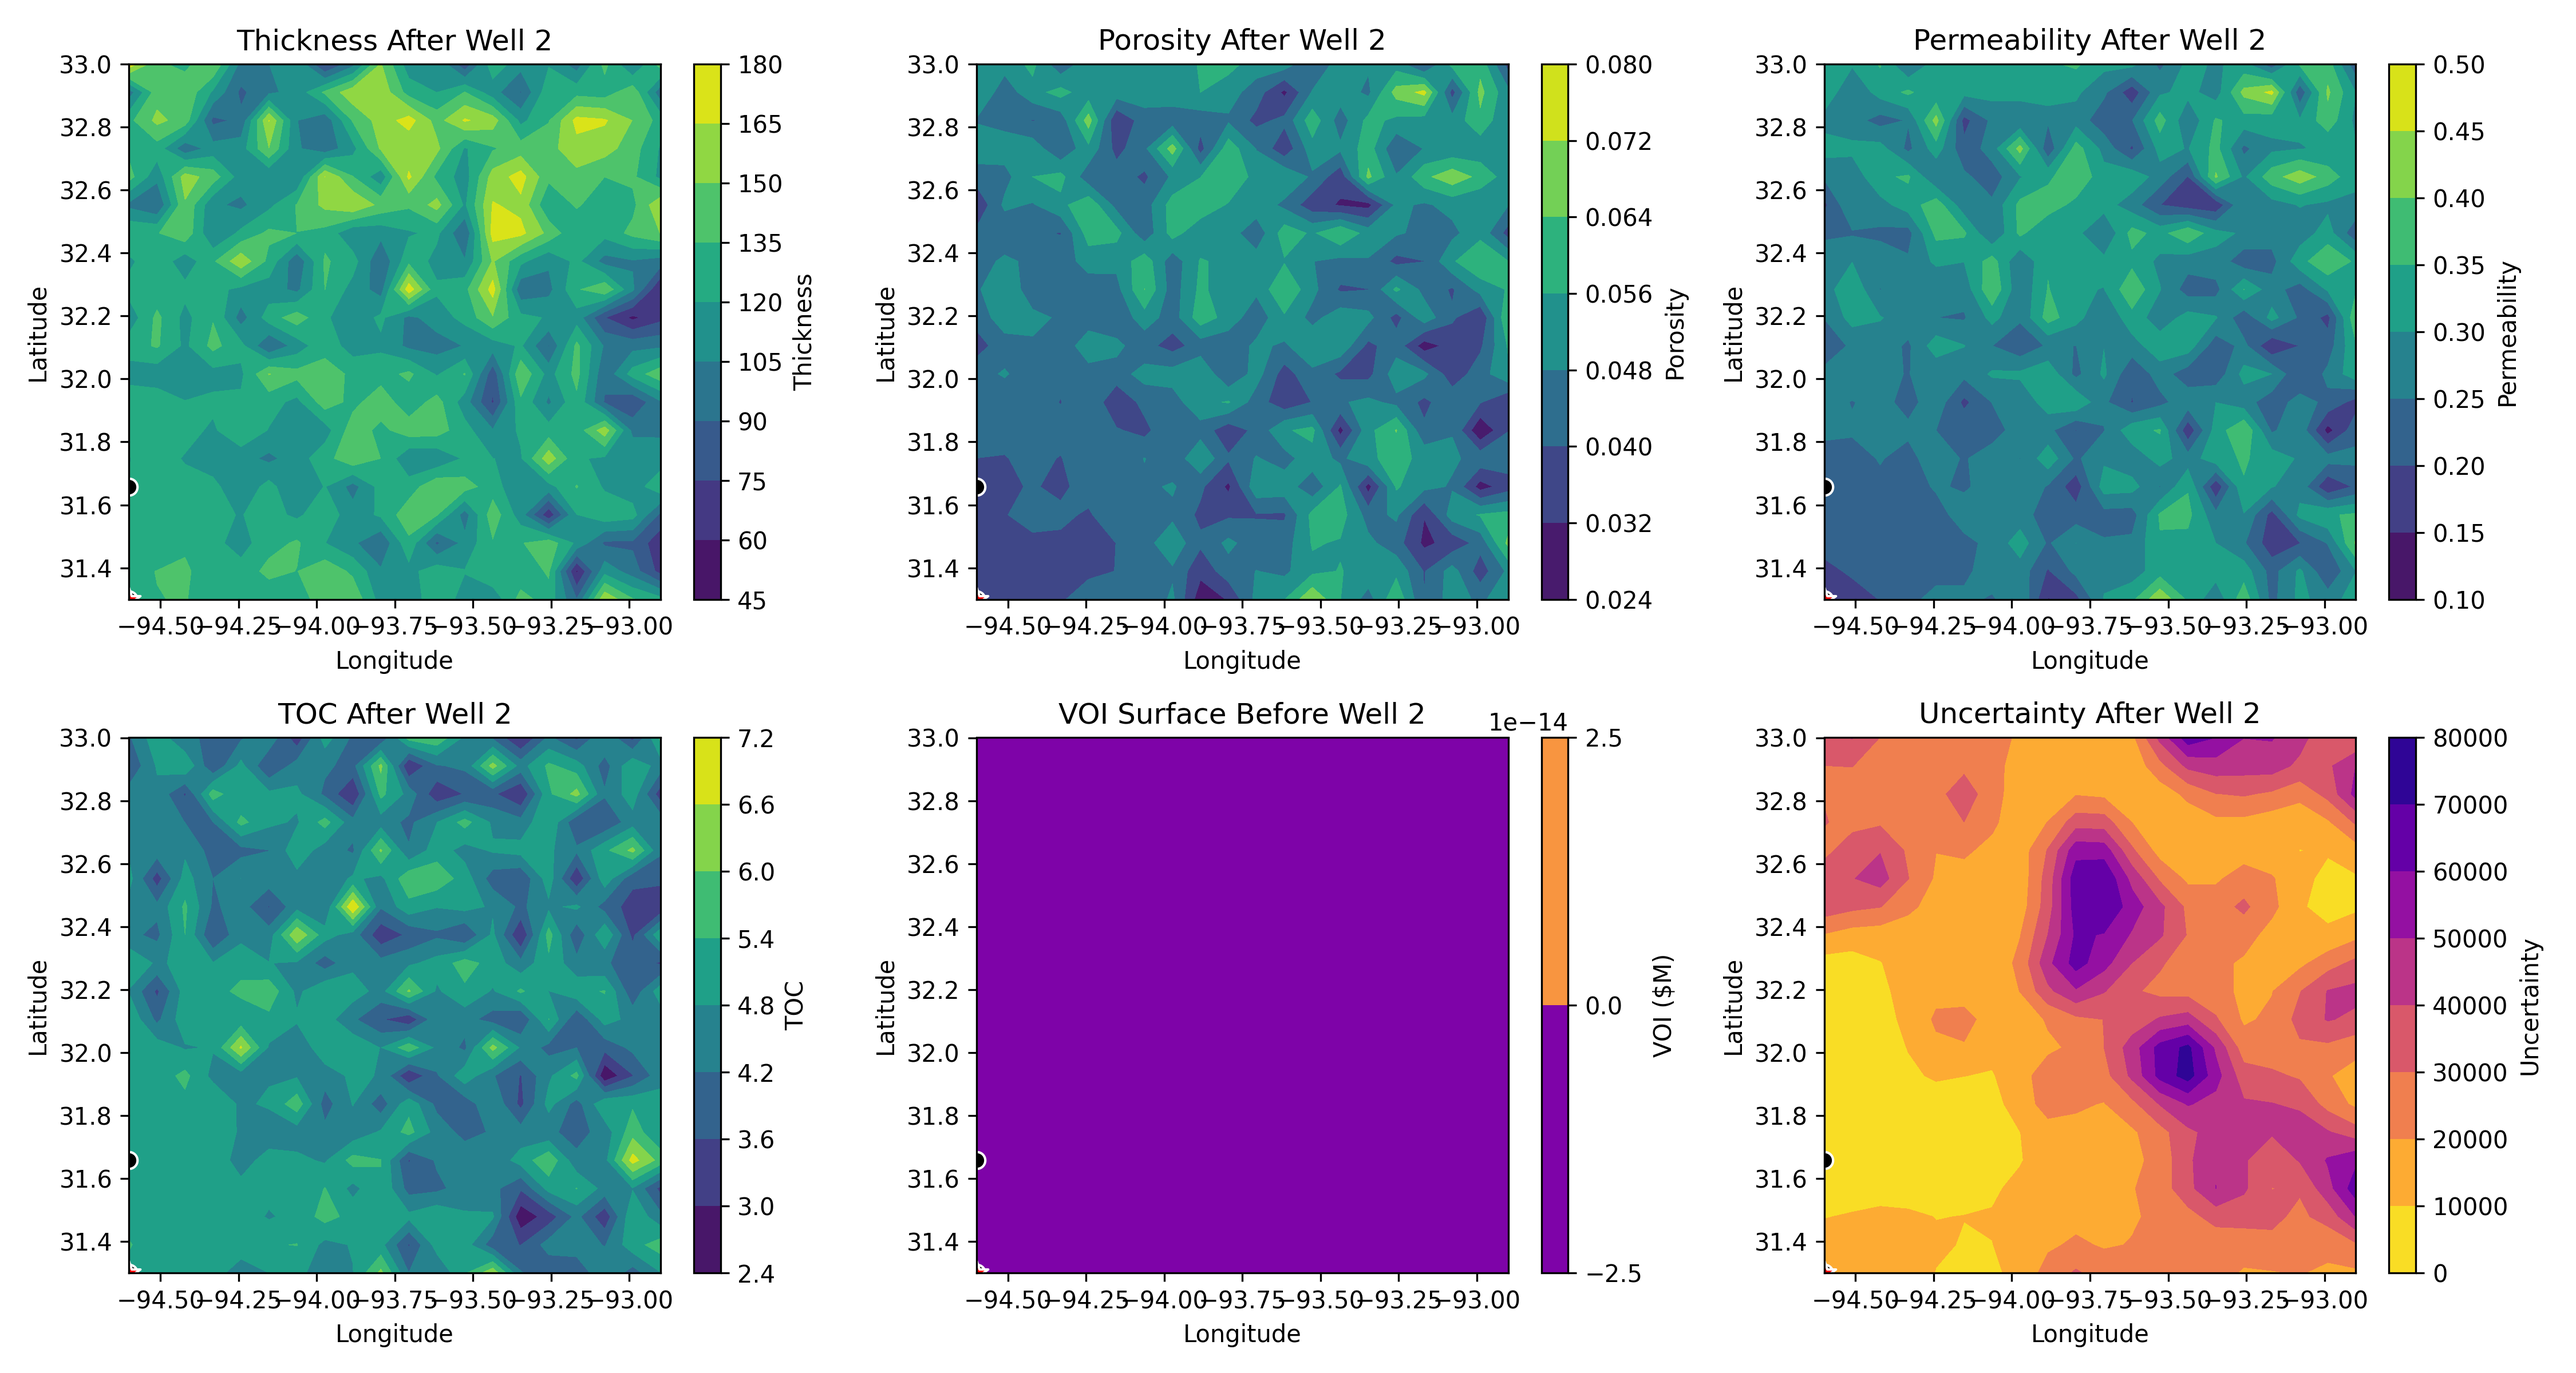
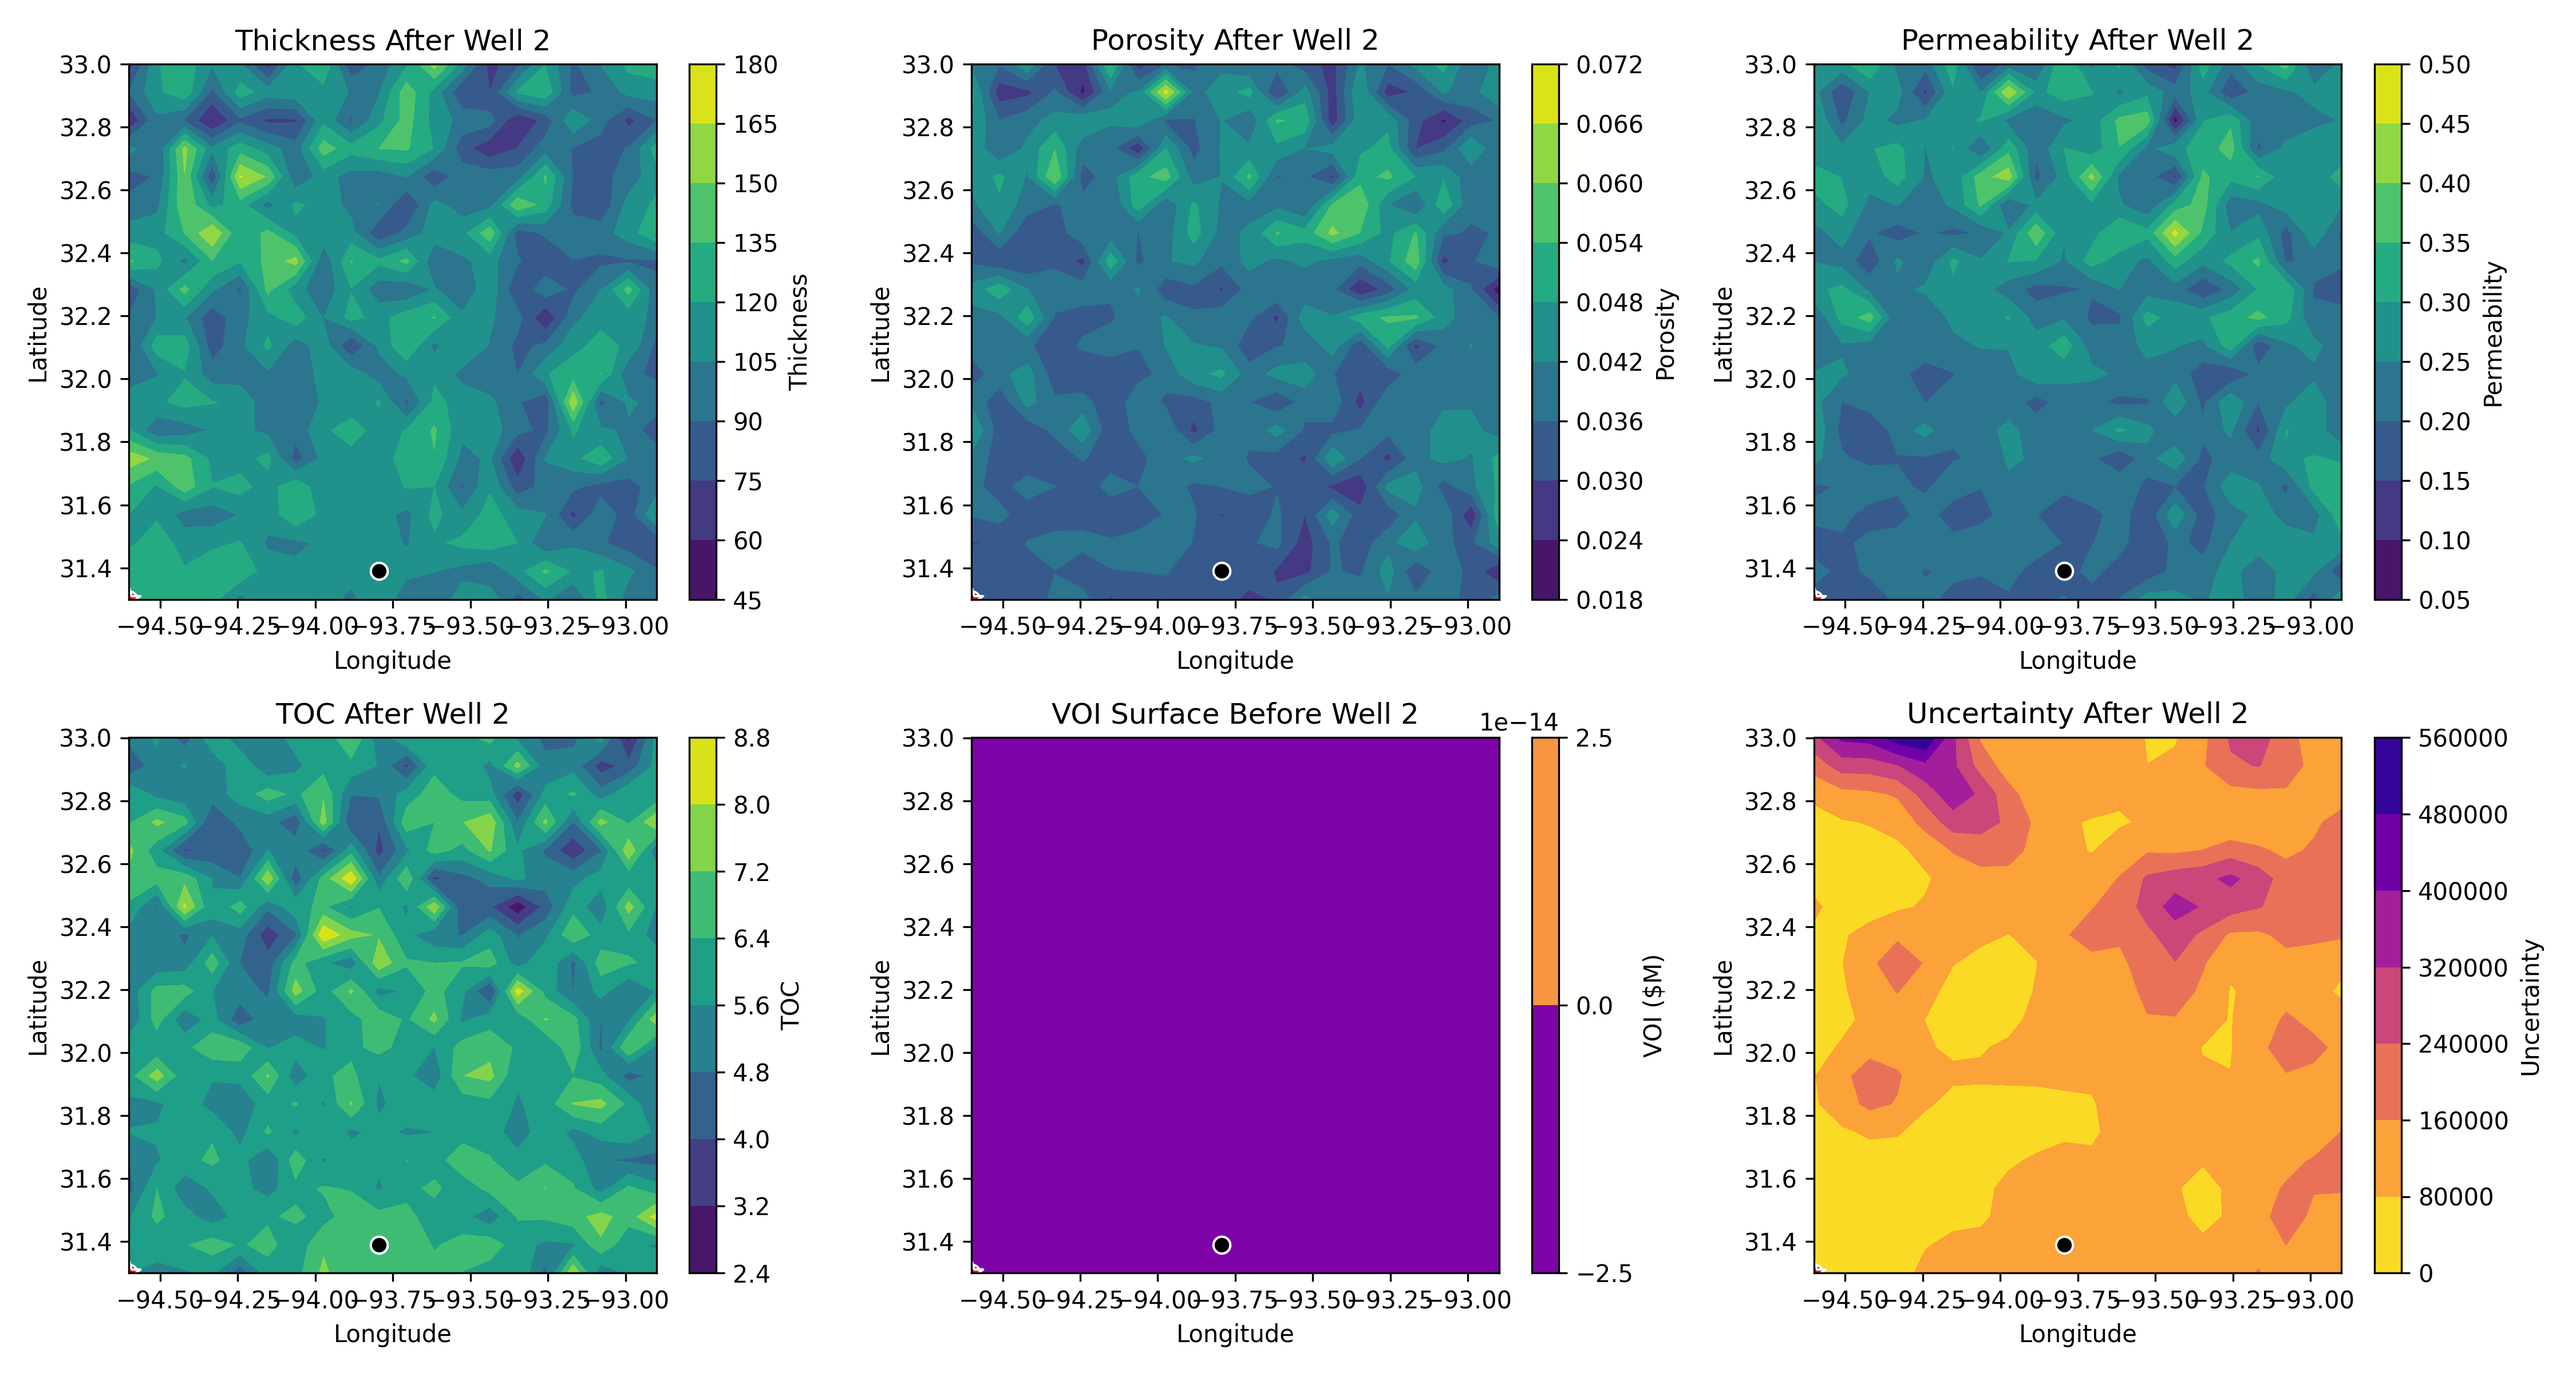
updates

diff --git a/examples/pretrained_model_demo.py b/examples/pretrained_model_demo.py
@@ -417,11 +417,33 @@ def run_exploration_simulation(n_wells: int = 3, random_seed: int = 42):
     )
 
     # Generate prior model (this represents our initial belief)
-    # We use a different seed to make it different from reality
+    # We use a different seed and larger discrepancy to make it more different from reality
     prior_model = generate_geological_model(
         grid_size=(20, 20),
-        random_seed=random_seed + 100
+        random_seed=random_seed + 500  # Much different seed to create larger initial uncertainty
     )
+
+    # Introduce systematic biases in the prior model to make it more different from reality
+    # For example, we might overestimate porosity and underestimate thickness
+    for prop in prior_model['properties']:
+        # Add random bias to each property (±15%)
+        np.random.seed(random_seed + hash(prop) % 10000)
+        bias_factor = np.random.uniform(0.85, 1.15)  # ±15% bias
+        prior_model['properties'][prop] *= bias_factor
+
+        # Add additional noise to represent initial uncertainty
+        # Use absolute value to ensure the standard deviation is positive
+        noise_scale = abs(np.mean(prior_model['properties'][prop])) * 0.1
+        noise = np.random.normal(0, noise_scale, prior_model['properties'][prop].shape)
+        prior_model['properties'][prop] += noise
+
+        # Ensure values are within realistic ranges
+        if prop == 'Porosity':
+            prior_model['properties'][prop] = np.clip(prior_model['properties'][prop], 0.01, 0.2)
+        elif prop == 'Permeability':
+            prior_model['properties'][prop] = np.clip(prior_model['properties'][prop], 0.01, 1.0)
+        elif prop == 'SW':  # Water saturation
+            prior_model['properties'][prop] = np.clip(prior_model['properties'][prop], 0.1, 0.9)
 
     # Create production and economic models
     production_model = PretrainedProductionModel()
@@ -440,10 +462,17 @@ def run_exploration_simulation(n_wells: int = 3, random_seed: int = 42):
     wells = []
 
     # Create directory for results
-    os.makedirs('results', exist_ok=True)
-    os.makedirs('results/npv_progression', exist_ok=True)
-    os.makedirs('results/information_gain', exist_ok=True)
-    os.makedirs('results/property_evolution', exist_ok=True)
+    # Make sure these directories exist before trying to save files
+    result_dirs = [
+        'results',
+        'results/npv_progression',
+        'results/information_gain',
+        'results/property_evolution'
+    ]
+
+    for directory in result_dirs:
+        os.makedirs(directory, exist_ok=True)
+        print(f"Ensuring directory exists: {directory}")
 
     # Store property evolution for creating progression plot later
     property_evolution = {
@@ -612,7 +641,14 @@ def run_exploration_simulation(n_wells: int = 3, random_seed: int = 42):
 
         # Calculate NPV at this location BEFORE update
         before_properties = {prop: prior_model['properties'][prop][i, j] for prop in prior_model['properties']}
-        before_production = production_model.predict_production(before_properties, time_points_days)
+
+        # Add some noise to before_production to simulate prediction uncertainty
+        # Set random seed based on well index for reproducibility
+        np.random.seed(random_seed + 500 + well_idx)
+        before_production_base = production_model.predict_production(before_properties, time_points_days)
+        prediction_noise = np.random.normal(1.0, 0.2, size=len(before_production_base))  # 20% noise
+        before_production = before_production_base * prediction_noise
+
         before_npv = economic_model.calculate_npv(before_production, time_points_years)
 
         # Update our belief based on well data
@@ -630,8 +666,21 @@ def run_exploration_simulation(n_wells: int = 3, random_seed: int = 42):
             prior_map = prior_model['properties'][prop]
             true_value = true_properties[prop]
 
-            # Update prior map with true value based on influence
-            prior_model['properties'][prop] = prior_map * (1 - influence) + true_value * influence
+            # Add some measurement noise to the true value to simulate imperfect measurements
+            # Use well index and property name to create a unique but reproducible random seed for each property measurement
+            prop_seed = hash(prop) % 10000  # Get a hash value from the property name
+            np.random.seed(random_seed + well_idx * 100 + prop_seed)
+            # Ensure standard deviation is positive
+            noise_scale = abs(true_value) * 0.05  # 5% noise
+            measurement_noise = np.random.normal(0, noise_scale)  # 5% noise
+            measured_value = true_value + measurement_noise
+
+            # Cap the maximum influence to avoid perfect knowledge even at the well location
+            max_influence = 0.85  # Maximum 85% influence from well data
+            capped_influence = influence * max_influence
+
+            # Update prior map with measured value based on influence
+            prior_model['properties'][prop] = prior_map * (1 - capped_influence) + measured_value * capped_influence
 
         # Store updated property maps for evolution plot
         property_evolution[f'well_{well_idx+1}'] = {
@@ -640,7 +689,15 @@ def run_exploration_simulation(n_wells: int = 3, random_seed: int = 42):
 
         # Calculate NPV at this location AFTER update
         after_properties = {prop: prior_model['properties'][prop][i, j] for prop in prior_model['properties']}
-        after_production = production_model.predict_production(after_properties, time_points_days)
+
+        # After drilling, our prediction should be more accurate but still have some uncertainty
+        # Use a different random seed for after-drilling calculation
+        np.random.seed(random_seed + 1000 + well_idx)
+        after_production_base = production_model.predict_production(after_properties, time_points_days)
+        # Less noise after drilling (10% vs 20% before drilling)
+        after_prediction_noise = np.random.normal(1.0, 0.1, size=len(after_production_base))
+        after_production = after_production_base * after_prediction_noise
+
         after_npv = economic_model.calculate_npv(after_production, time_points_years)
 
         # Calculate Monte Carlo NPV at the well location
@@ -784,7 +841,9 @@ def run_exploration_simulation(n_wells: int = 3, random_seed: int = 42):
         before_uncertainty = initial_uncertainty_map[wells[-1]['i'], wells[-1]['j']] if well_idx == 0 else updated_uncertainty[wells[-1]['i'], wells[-1]['j']]
 
         # Calculate updated uncertainty at the well location
-        after_uncertainty = 0  # At the well location, uncertainty becomes zero
+        # In reality, there is always some residual uncertainty even after direct measurement
+        # Using 10-20% of original uncertainty is more realistic than 0
+        after_uncertainty = before_uncertainty * 0.15  # 85% reduction instead of 100%
 
         # Calculate information gain metrics
         uncertainty_reduction = before_uncertainty - after_uncertainty
@@ -962,46 +1021,83 @@ def run_exploration_simulation(n_wells: int = 3, random_seed: int = 42):
     # Create property evolution visualization
     # For each property, create a progression plot showing how it evolved with each well
     for prop in ['Porosity', 'Permeability', 'Thickness', 'TOC']:
-        plt.figure(figsize=(15, 10))
-
+        # For a large number of wells, split into multiple figures
+        # Maximum 9 subplots per figure (3x3 grid)
+        max_plots_per_figure = 9
+        n_figures = (n_wells + 2) // max_plots_per_figure + 1  # +2 for initial state and buffer
+        
         # Determine min/max for consistent colorbar
         all_values = []
         for stage, maps in property_evolution.items():
             all_values.append(maps[prop].flatten())
-
+        
         all_values = np.concatenate(all_values)
         vmin, vmax = np.min(all_values), np.max(all_values)
-
-        # Plot initial state
-        plt.subplot(2, (n_wells + 1) // 2, 1)
-        cont = plt.contourf(prior_model['X'], prior_model['Y'], property_evolution['initial'][prop],
-                           cmap='viridis', vmin=vmin, vmax=vmax)
-        plt.colorbar(label=prop)
-        plt.title(f"Initial {prop} Map")
-        plt.xlabel("Longitude")
-        plt.ylabel("Latitude")
-
-        # Plot state after each well
-        for well_idx in range(n_wells):
-            plt.subplot(2, (n_wells + 1) // 2, well_idx + 2)
-            cont = plt.contourf(prior_model['X'], prior_model['Y'],
-                               property_evolution[f'well_{well_idx+1}'][prop],
-                               cmap='viridis', vmin=vmin, vmax=vmax)
-            plt.colorbar(label=prop)
-
-            # Plot wells drilled up to this point
-            for i in range(well_idx + 1):
-                color = 'red' if i == well_idx else 'black'
-                size = 100 if i == well_idx else 50
-                plt.scatter(wells[i]['x'], wells[i]['y'], c=color, s=size, marker='o', edgecolor='white')
-
-            plt.title(f"{prop} After Well {well_idx + 1}")
-            plt.xlabel("Longitude")
-            plt.ylabel("Latitude")
-
-        plt.tight_layout()
-        plt.savefig(f'results/property_evolution/{prop}_evolution.png', dpi=300)
-        plt.close()
+        
+        # Process wells in batches
+        plot_idx = 0
+        for fig_idx in range(n_figures):
+            # Calculate how many plots for this figure
+            start_well = fig_idx * max_plots_per_figure - 1  # -1 to account for initial state
+            end_well = min(start_well + max_plots_per_figure, n_wells)
+            n_plots = end_well - start_well
+            
+            if start_well < 0:  # First figure includes initial state
+                n_plots += 1
+                has_initial = True
+            else:
+                has_initial = False
+            
+            if n_plots <= 0:
+                break  # No more wells to plot
+                
+            # Create figure with appropriate size
+            plt.figure(figsize=(15, 10))
+            
+            # Calculate grid dimensions - aim for roughly square layout
+            n_cols = min(3, n_plots)
+            n_rows = (n_plots + n_cols - 1) // n_cols
+            
+            # Plot initial state in first figure
+            if has_initial:
+                plt.subplot(n_rows, n_cols, 1)
+                cont = plt.contourf(prior_model['X'], prior_model['Y'], property_evolution['initial'][prop], 
+                                  cmap='viridis', vmin=vmin, vmax=vmax)
+                plt.colorbar(label=prop)
+                plt.title(f"Initial {prop} Map")
+                plt.xlabel("Longitude")
+                plt.ylabel("Latitude")
+                plot_idx = 1
+            else:
+                plot_idx = 0
+            
+            # Plot state after each well in this batch
+            for rel_well_idx in range(n_plots - (1 if has_initial else 0)):
+                well_idx = start_well + rel_well_idx + (1 if has_initial else 0)
+                if well_idx >= n_wells:
+                    break
+                    
+                plt.subplot(n_rows, n_cols, plot_idx + 1)
+                cont = plt.contourf(prior_model['X'], prior_model['Y'], 
+                                  property_evolution[f'well_{well_idx+1}'][prop], 
+                                  cmap='viridis', vmin=vmin, vmax=vmax)
+                plt.colorbar(label=prop)
+                
+                # Plot wells drilled up to this point
+                for i in range(well_idx + 1):
+                    color = 'red' if i == well_idx else 'black'
+                    size = 100 if i == well_idx else 50
+                    plt.scatter(wells[i]['x'], wells[i]['y'], c=color, s=size, marker='o', edgecolor='white')
+                
+                plt.title(f"{prop} After Well {well_idx + 1}")
+                plt.xlabel("Longitude")
+                plt.ylabel("Latitude")
+                plot_idx += 1
+            
+            plt.tight_layout()
+            batch_label = f"_batch{fig_idx+1}" if n_figures > 1 else ""
+            plt.savefig(f'results/property_evolution/{prop}_evolution{batch_label}.png', dpi=300)
+            plt.close()
 
     # Create NPV distribution progression plot
     plt.figure(figsize=(15, 8))
@@ -1104,7 +1200,7 @@ if __name__ == "__main__":
     # Parse command line arguments
     import argparse
     parser = argparse.ArgumentParser(description="Run exploration simulation with pre-trained model")
-    parser.add_argument("--wells", type=int, default=3, help="Number of exploration wells to drill")
+    parser.add_argument("--wells", type=int, default=10, help="Number of exploration wells to drill")
     parser.add_argument("--seed", type=int, default=42, help="Random seed")
     parser.add_argument("--show", action="store_true", help="Show plots")
     args = parser.parse_args()
